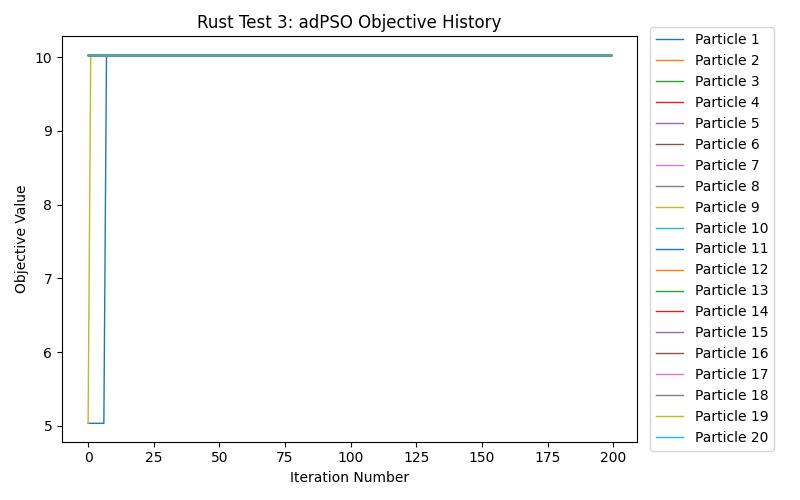
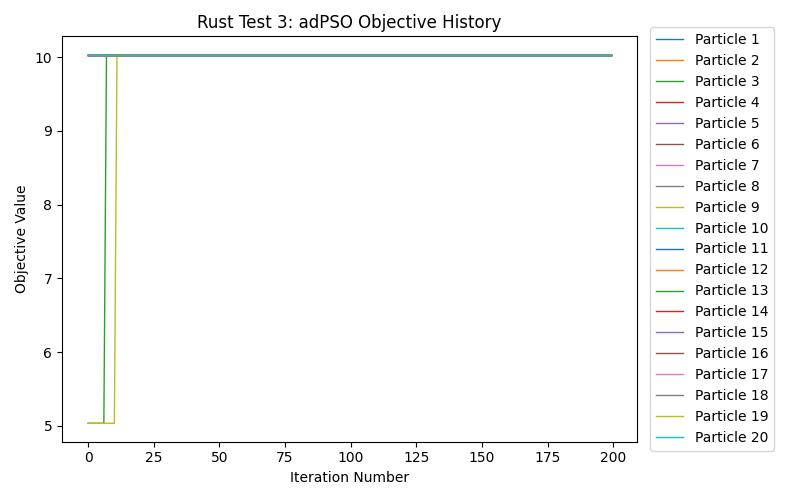
add test 6 to rust program to successfully expose a bug

Changed region(s): [[0.0938, 0.12, 0.1562, 0.87]]

diff --git a/psoscheduler-rust/src/lib.rs b/psoscheduler-rust/src/lib.rs
@@ -147,6 +147,28 @@ pub fn build_test5_workload() -> simulation::workload::Workload {
   workload
 }
 
+pub fn build_test6_data_center() -> simulation::data_center::DataCenter {
+  build_test4_data_center()
+}
+
+pub fn build_test6_workload() -> simulation::workload::Workload {
+  reset_workload_id_counter();
+
+  let n_tasks: usize = 5;
+  let task_mi_low: usize = 5;
+  let task_mi_high: usize = 20;
+
+  let mut workload = simulation::workload::Workload::new();
+
+  for _ in 0..n_tasks {
+    let mi = utils::utilities::get_random_integer(task_mi_low, task_mi_high) as u32;
+    let task = simulation::task::Task::new(mi);
+    workload.add_task(task);
+  }
+
+  workload
+}
+
 pub fn build_test11_data_center() -> simulation::data_center::DataCenter {
   let n_vms: usize = 100;
   let vm_mips_low: usize = 1000;
@@ -252,7 +274,7 @@ pub fn run_test_pso_main() {
     "3" => build_test3_workload(),
     "4" => build_test4_workload(),
     "5" => build_test5_workload(),
-    // "6" => build_test6_workload(),
+    "6" => build_test6_workload(),
     // "7" => build_test7_workload(),
     // "8" => build_test8_workload(),
     // "9" => build_test9_workload(),
@@ -267,7 +289,7 @@ pub fn run_test_pso_main() {
     "3" => build_test3_data_center(),
     "4" => build_test4_data_center(),
     "5" => build_test5_data_center(),
-    // "6" => build_test6_data_center(),
+    "6" => build_test6_data_center(),
     // "7" => build_test7_data_center(),
     // "8" => build_test8_data_center(),
     // "9" => build_test9_data_center(),
@@ -279,37 +301,16 @@ pub fn run_test_pso_main() {
   let mut swarm = pso::pso_swarm::PSOSwarm::new(workload, data_center);
   swarm.run_pso_algorithm();
 
-  swarm.find_global_best();
+  swarm.data_center.reset_virtual_machine_ready_time();
+
+  for (task_id, vm_id) in swarm.global_best_task_vm_mapping.iter() {
+    let task: &simulation::task::Task = swarm.workload.tasks.get(*task_id).unwrap();
+    swarm.data_center.add_execution_time_to_virtual_machine(task, *vm_id);
+  }
 
   println!("Global Best Objective: {:?}", swarm.global_best_objective);
-  println!("Global Best Throughput: {:?}", swarm.global_best_th);
-  println!("Global Best TEC: {:?}", swarm.global_best_tec);
-
-  swarm.data_center.reset_virtual_machine_ready_time();
-  let mut i: usize = 0;
-  for row in swarm.global_best_position.rows() {
-    let task: &Task = &swarm.workload.tasks[i];
-    let mut vm_id: usize = 0;
-    for (j, e) in row.indexed_iter() {
-      if *e > 0.9 {
-        vm_id = j;
-        break;
-      }
-    }
-    swarm.data_center.add_execution_time_to_virtual_machine(task, vm_id);
-    // print!("{}=>{} ", i, vm_id);
-    i += 1;
-  }
-  // println!("");
-  // swarm.update_task_vm_mapping();
-  // for (task_id, vm_id) in swarm.global_best_task_vm_mapping.iter() {
-  //   print!("{}=>{} ", task_id, vm_id);
-  //   let task: &simulation::task::Task = swarm.workload.tasks.get(*task_id).unwrap();
-  //   swarm.data_center.add_execution_time_to_virtual_machine(task, *vm_id);
-  // }
-
   println!("Global Best Objective (double check): {:?}", swarm.data_center.compute_objective());
-  // println!("Global Best Makespan (double check): {:?} sec", swarm.data_center.compute_makespan());
+  println!("Global Best Makespan (double check): {:?} sec", swarm.data_center.compute_makespan());
   println!("Global Best Throughput (double check): {:?} tasks/sec", swarm.data_center.compute_throughput());
   println!("Global Best Energy Consumption (double check): {:?} kWh", swarm.data_center.compute_energy_consumption_kwh());
   // println!("Final Mapping: {:?}", swarm.global_best_task_vm_mapping);

diff --git a/psoscheduler-rust/src/pso/particle.rs b/psoscheduler-rust/src/pso/particle.rs
@@ -5,6 +5,7 @@ use ndarray_rand::rand_distr::Uniform;
 use std::sync::atomic::{AtomicUsize, Ordering};
 use std::collections::HashMap;
 
+use crate::simulation::task::Task;
 use crate::utils::utilities;
 use crate::simulation::data_center::DataCenter;
 use crate::simulation::workload::Workload;
@@ -18,10 +19,6 @@ pub struct Particle {
   pub task_vm_mapping: HashMap<usize, usize>,
   pub personal_best_position: Array2<f32>,
   pub personal_best_objective: f32,
-
-  pub personal_best_th: f32,
-  pub personal_best_tec: f32,
-
   pub objective_history: Vec<f32>,
 }
 
@@ -62,8 +59,6 @@ impl Particle {
       task_vm_mapping: task_vm_mapping,
       personal_best_position: personal_best_position,
       personal_best_objective: personal_best_objective,
-      personal_best_th: 0.0,
-      personal_best_tec: 0.0,
       objective_history: objective_history,
     }
   }
@@ -77,11 +72,6 @@ impl Particle {
 
     if objective > self.personal_best_objective {
       self.personal_best_objective = objective;
-
-      self.personal_best_tec = data_center.compute_energy_consumption_kwh();
-      println!("{}", self.personal_best_tec);
-      self.personal_best_th = data_center.compute_throughput();
-
       self.personal_best_position = self.position.clone();
       self.objective_history.push(objective);
       return 1;
@@ -91,24 +81,24 @@ impl Particle {
 
     return 0;
   }
+  
+  fn update_data_center(&self, workload: &Workload, data_center: &mut DataCenter) {
+    data_center.reset_virtual_machine_ready_time();
 
-  // fn update_data_center(&self, workload: &Workload, data_center: &mut DataCenter) {
-  //   data_center.reset_virtual_machine_ready_time();
-
-  //   let mut i: usize = 0;
-  //   for row in self.position.rows() {
-  //     let task: &Task = &workload.tasks[i];
-  //     let mut vm_id: usize = 0;
-  //     for (j, e) in row.indexed_iter() {
-  //       if *e > 0.9 {
-  //         vm_id = j;
-  //         break;
-  //       }
-  //     }
-  //     data_center.add_execution_time_to_virtual_machine(task, vm_id);
-  //     i += 1;
-  //   }
-  // }
+    let mut i: usize = 0;
+    for row in self.position.rows() {
+      let task: &Task = &workload.tasks[i];
+      let mut vm_id: usize = 0;
+      for (j, e) in row.indexed_iter() {
+        if *e > 0.9 {
+          vm_id = j;
+          break;
+        }
+      }
+      data_center.add_execution_time_to_virtual_machine(task, vm_id);
+      i += 1;
+    }
+  }
 
   fn update_velocity(&mut self, w: f32, global_best_position: &Array2<f32>) {
     let r1: f32 = utilities::get_random_float(0., 1.);

diff --git a/psoscheduler-rust/src/pso/pso_swarm.rs b/psoscheduler-rust/src/pso/pso_swarm.rs
@@ -11,10 +11,6 @@ pub struct PSOSwarm {
   pub p_s: f32,
   pub w: f32,
   pub global_best_objective: f32,
-
-  pub global_best_th: f32,
-  pub global_best_tec: f32,
-
   pub global_best_position: Array2<f32>,
   pub global_best_task_vm_mapping: HashMap<usize, usize>,
   pub particles: Vec<Particle>,
@@ -47,8 +43,6 @@ impl PSOSwarm {
       w: w,
       global_best_objective: 0.,
       global_best_position: global_best_position,
-      global_best_th: 0.0,
-      global_best_tec: 0.0,
       global_best_task_vm_mapping: global_best_task_vm_mapping,
       particles: particles,
       workload: workload,
@@ -92,8 +86,6 @@ impl PSOSwarm {
     for particle in self.particles.iter() {
       if particle.personal_best_objective > self.global_best_objective {
         self.global_best_objective = particle.personal_best_objective;
-        self.global_best_th = particle.personal_best_th;
-        self.global_best_tec = particle.personal_best_tec;
         self.global_best_position = particle.personal_best_position.clone();
       }
     }

diff --git a/psoscheduler-rust/src/simulation/data_center.rs b/psoscheduler-rust/src/simulation/data_center.rs
@@ -101,8 +101,8 @@ impl DataCenter {
   pub fn compute_objective(&self) -> f32 {
     let makespan = self.compute_makespan();
     let throughput = (self.task_count as f32) / makespan;
-    let kwh = self._compute_energy_consumption_kwh(makespan) * 1000.;
-    let kwh_per_task = kwh / self.task_count as f32;
+    let wh = self._compute_energy_consumption_kwh(makespan) * 1000.;
+    let kwh_per_task = wh / self.task_count as f32;
     // Scale the energy consumption to an appropriate weight in the objective function
     return throughput + (0.1 / kwh_per_task);
   }

diff --git a/psoscheduler-java/src/main/java/syslab/cloudcomputing/simulation/DataCenter.java b/psoscheduler-java/src/main/java/syslab/cloudcomputing/simulation/DataCenter.java
@@ -64,8 +64,8 @@ public abstract class DataCenter {
   public double computeObjective() {
 		double makespan = this.computeMakespan();
     double throughput = (this.taskCount / makespan);
-    double kWh = this._computeEnergyConsumptionkWh(makespan);
-    return throughput + (5.0 / kWh);
+    double Wh = this._computeEnergyConsumptionkWh(makespan) * 1000.0;
+    return throughput + (0.1 / Wh);
 	}
 
   // Private version that doesn't recompute the makespan to prioritize efficiency

diff --git a/psoscheduler-java/src/main/java/syslab/cloudcomputing/pso/PSOSwarm.java b/psoscheduler-java/src/main/java/syslab/cloudcomputing/pso/PSOSwarm.java
@@ -41,7 +41,7 @@ public class PSOSwarm {
   private void initializeSwarm(int nParticles) {
     this.particles = new ArrayList<Particle>();
     for (int i = 0; i < nParticles; i++) {
-      Particle particle = new Particle(this.dataCenter, this.workload, Particle.InitializationStrategy.RANDOM);
+      Particle particle = new Particle(this.dataCenter, this.workload, Particle.InitializationStrategy.MCT);
       this.particles.add(particle);
     }
 
